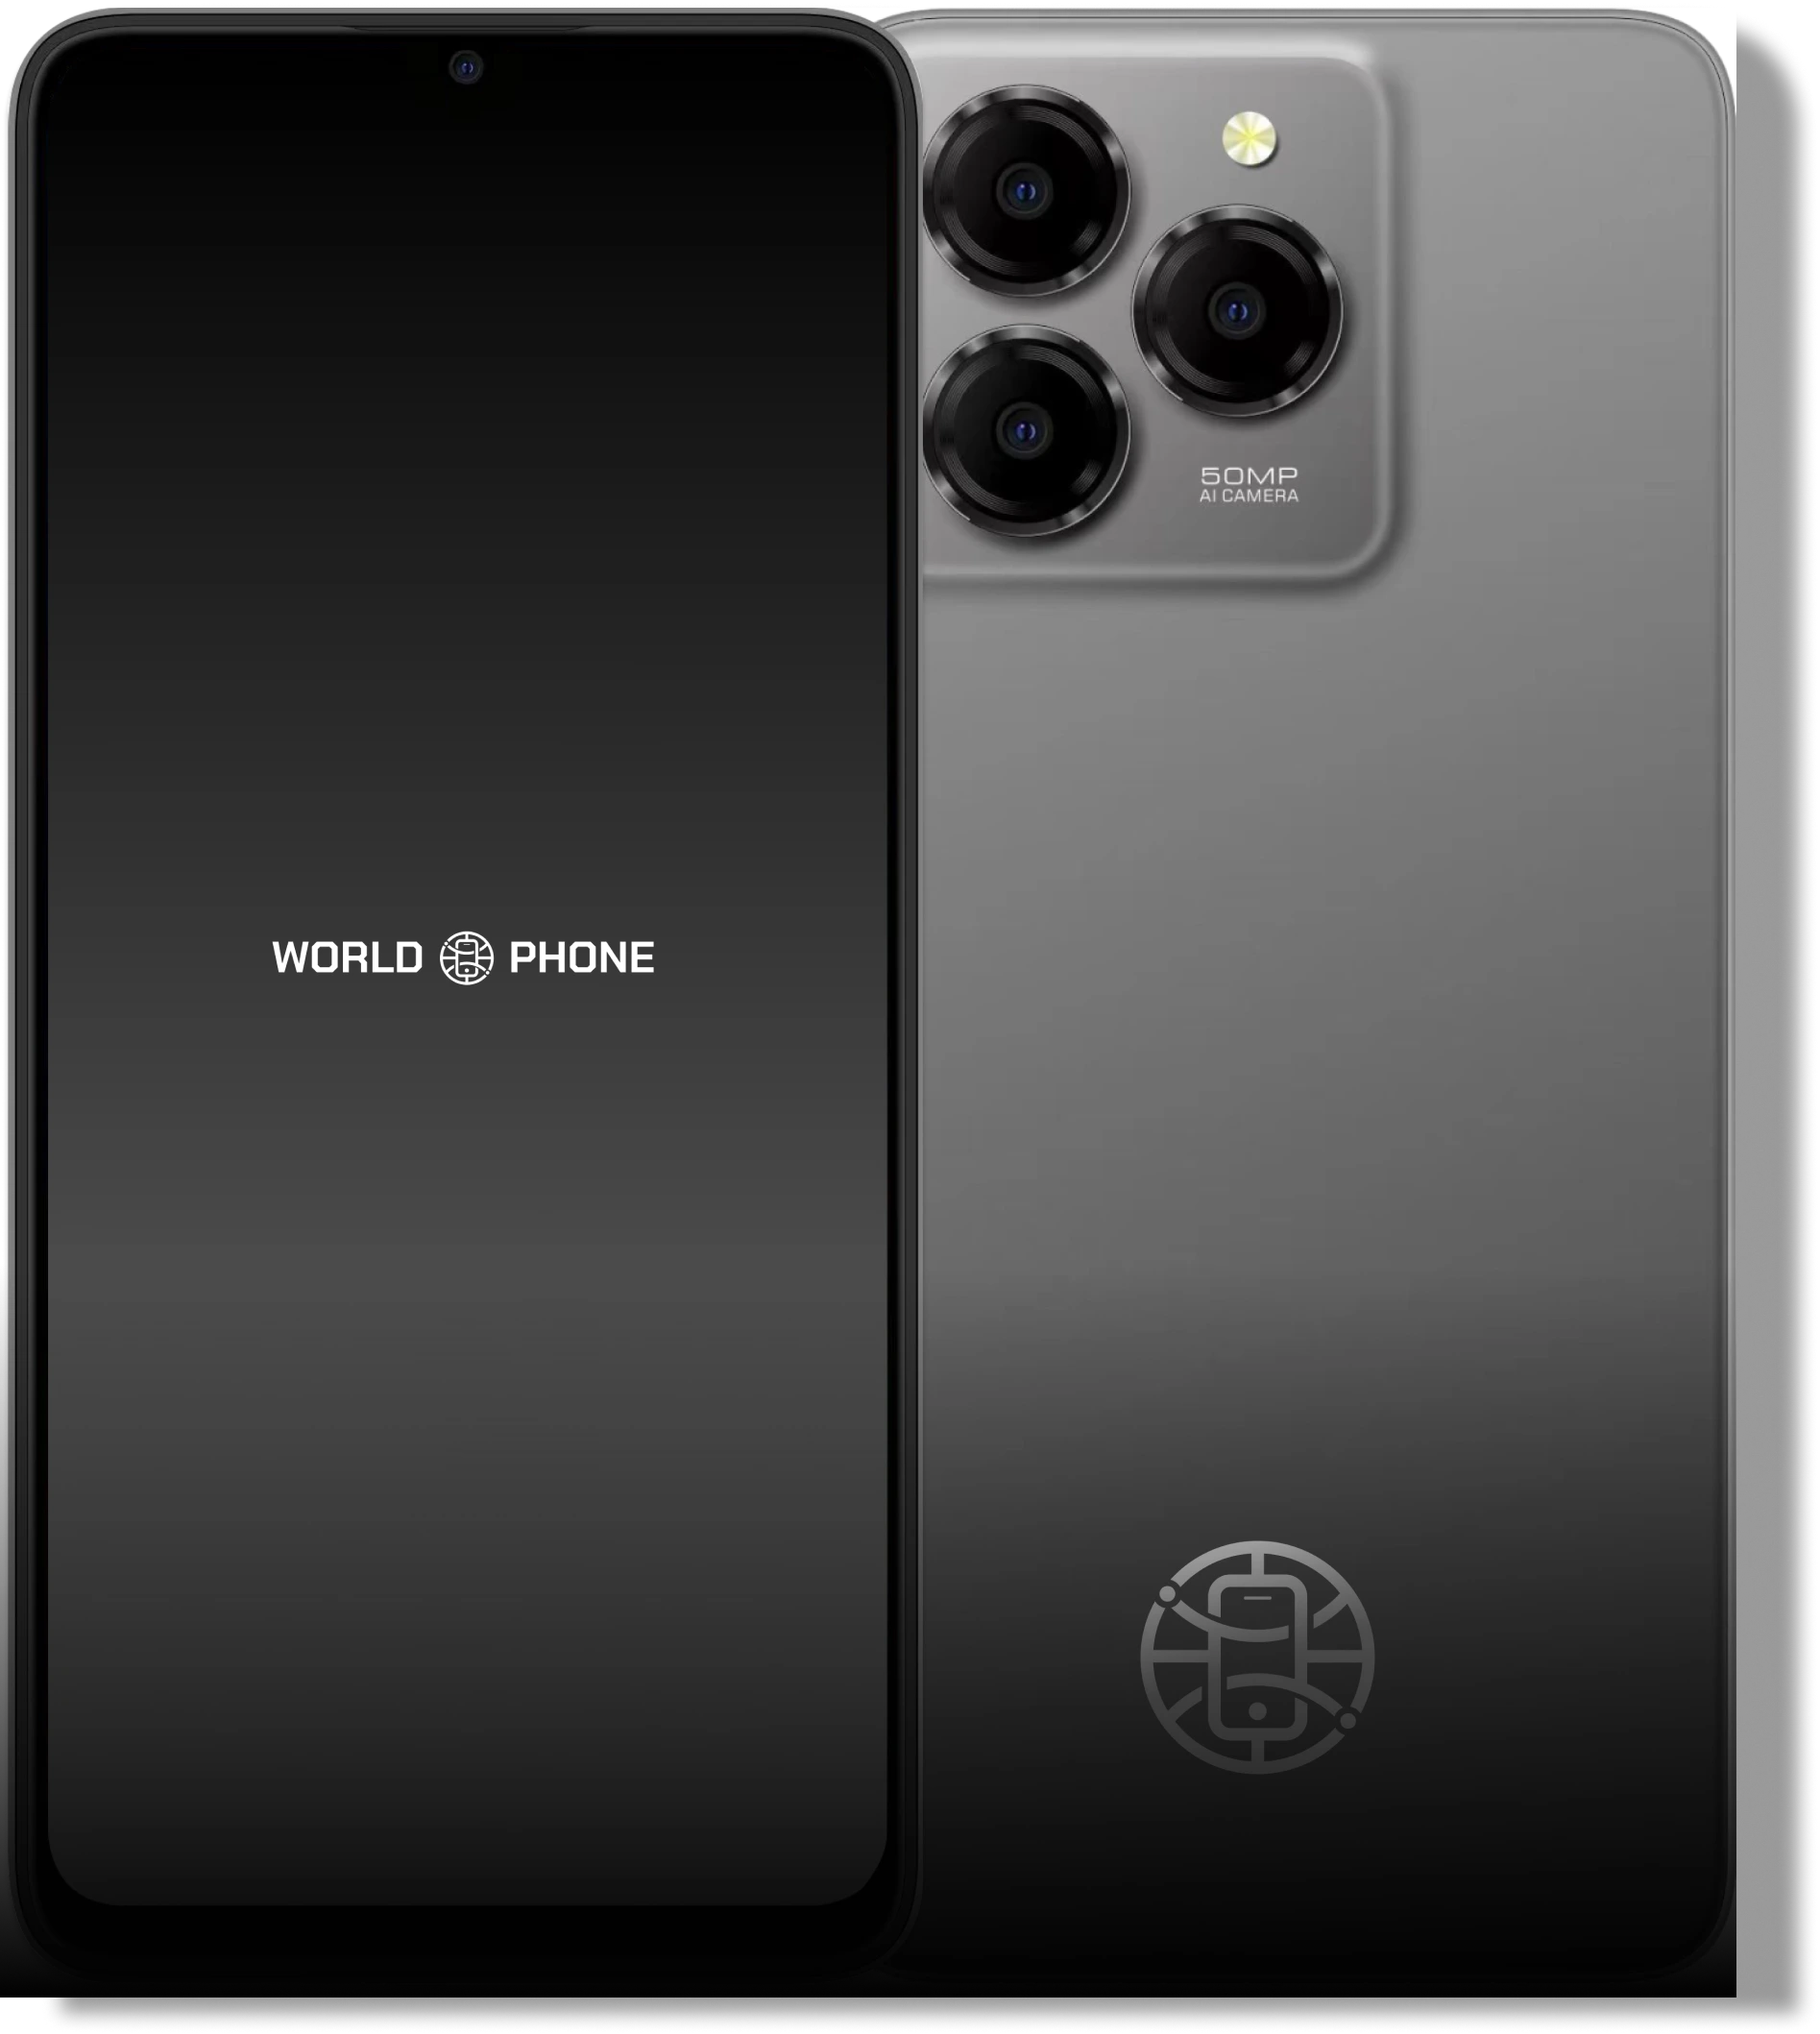
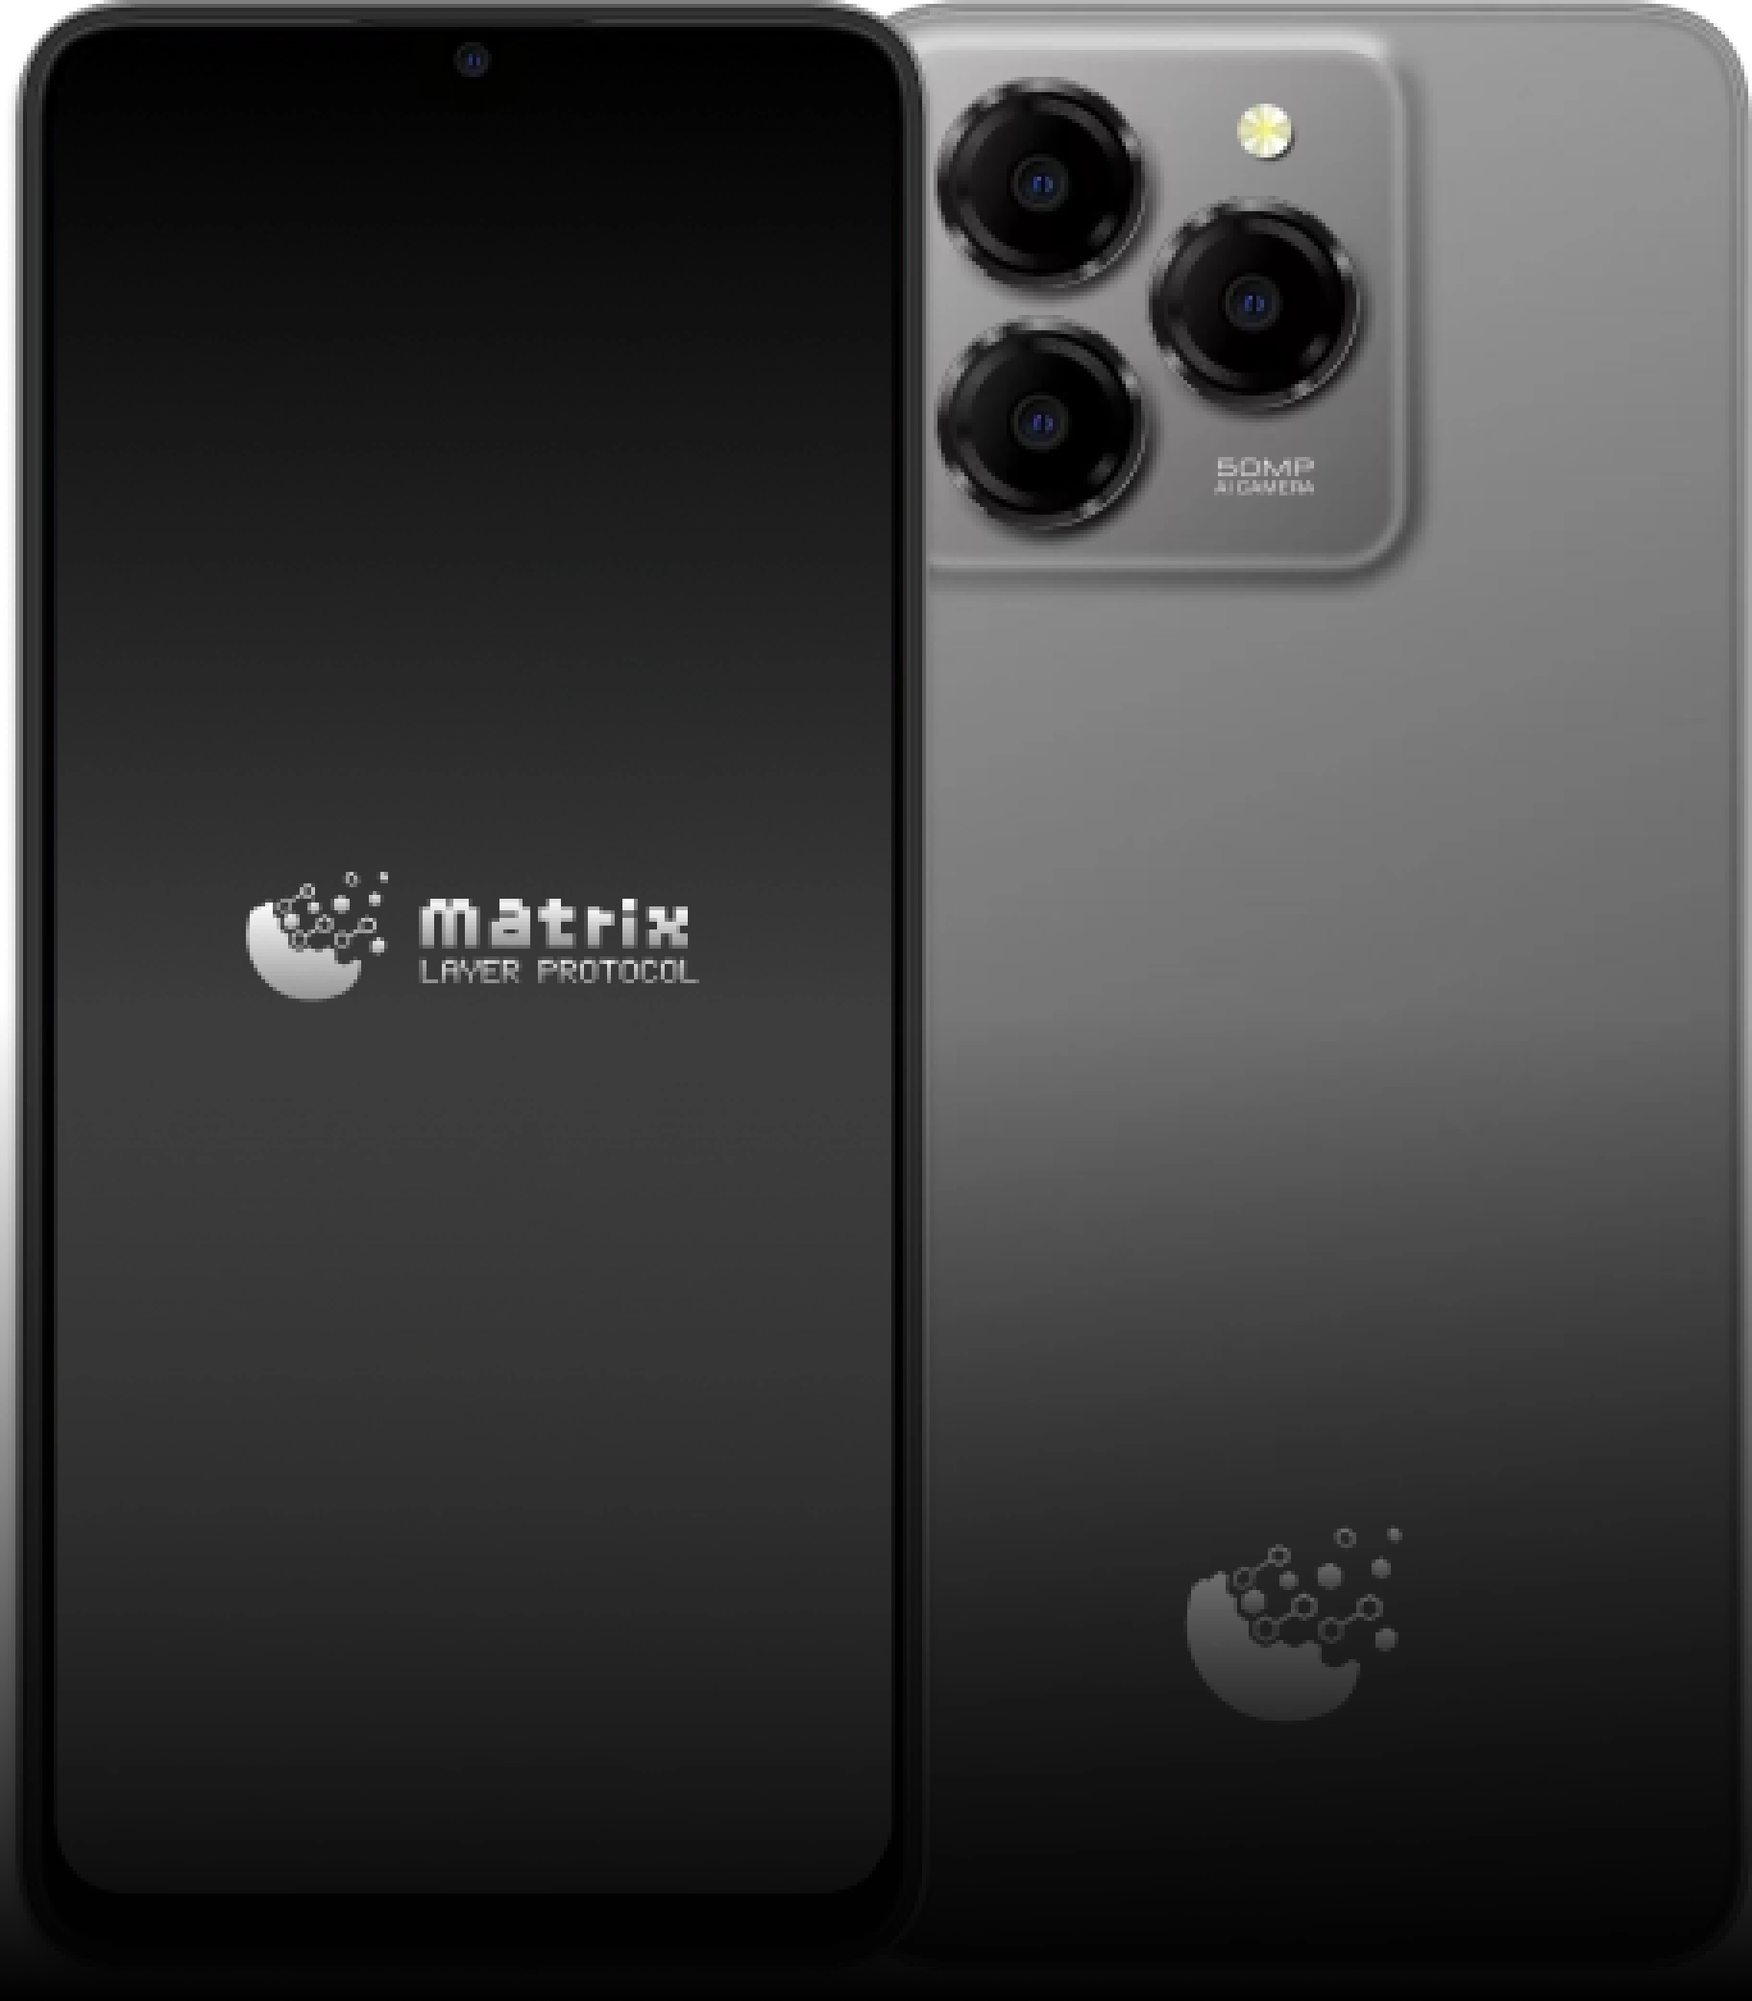
feat: replace home wphone

Changed region(s): [[0.0, 0.0, 1.0, 1.0], [0.125, 0.4367, 0.4062, 0.499], [0.625, 0.7486, 0.8125, 0.8733]]

diff --git a/pages/index.tsx b/pages/index.tsx
@@ -120,31 +120,32 @@ const HomePage = () => {
                 src='/images/home/home_float_2.webp'
                 alt='home_float_2'
               />
-              <div className='flex justify-center items-center'>
-                <Text className='relative z-10 text-[66px] text-white font-pressStart2P translate-x-[20px]'>
-                  WORLD
+              <div className='flex flex-col justify-center items-center'>
+                <Text className='relative z-10 text-[52px] text-white font-pressStart2P text-center'>
+                  MATRIX LAYER <br />
+                  PROTOCOL
                 </Text>
                 <img
-                  className='w-[452px] h-[518px] object-cover relative z-20'
+                  className='w-[456px] h-[521px] object-cover relative z-20'
                   src='/images/home/home_image_1.webp'
                   alt='home_image_1'
                 />
-                <Text className='relative z-10 text-[66px] text-white font-pressStart2P translate-x-[-40px]'>
-                  PHONE
-                </Text>
               </div>
-              <Button className='text-[32px] text-center p-[20px] rounded-[20px] translate-y-[-6px]'>
+              <Button
+                className='relative z-20 bottom-[50px] text-[32px] text-center p-[20px] rounded-[20px]
+                  translate-y-[-6px]'
+              >
                 Unlock with Your Eyes, Connect with the Blockchain
               </Button>
             </div>
           </Content>
         </div>
       </Container>
-      <Container className='flex flex-col justify-end z-20 bg-gradient-home-bg-1 min-h-[800px] pt-[200px]'>
+      <Container className='flex flex-col justify-end bg-gradient-home-bg-1 min-h-[800px]'>
         <div ref={section2Ref}>
           <video
             ref={video2Ref}
-            className='w-screen h-full object-cover max-h-[1080px] rotate-[27.82deg]'
+            className='w-screen h-full object-cover max-h-[1080px] rotate-[27.82deg] opacity-30'
             autoPlay
             muted
             loop
@@ -169,17 +170,17 @@ const HomePage = () => {
             <div className='flex flex-col gap-y-[30px] items-start lg:w-[920px]'>
               <Text
                 className='text-[14px] text-center lg:text-left lg:text-[48px] clip-text
-                  bg-gradient-home-text-1 font-bold'
+                  bg-gradient-home-text-1 font-semibold'
               >
-                The World&apos;s First Smartphone <br /> with Full-Chain Network
-                Integration
+                The World&apos;s First Smartphone <br />
+                with Full-Chain Network Integration
               </Text>
               <Text className='text-[12px] font-normal lg:text-[22px] text-center lg:text-left'>
-                World Phone is designed to break the limitations of traditional
-                mobile devices by deeply integrating blockchain technology into
-                smartphones through innovative hardware and software,
-                simplifying users&apos; access to Web3 and enhancing their
-                overall experience.
+                Matrix Layer Protocol is designed to break the limitations of
+                traditional mobile devices by deeply integrating blockchain
+                technology into smartphones through innovative hardware and
+                software, simplifying users&apos; access to Web3 and enhancing
+                their overall experience.
               </Text>
               <div className='w-[65px] h-[1px] bg-white'></div>
               <Text
@@ -210,15 +211,15 @@ const HomePage = () => {
           ></div>
         </ImagesField>
         <Content className='pb-[70px]'>
-          <Text className='text-[24px] lg:text-[64px] mb-[12px] font-bold text-center'>
+          <Text className='text-[24px] lg:text-[64px] mb-[12px] font-semibold text-center'>
             <span className='clip-text bg-gradient-home-text-1'>
               Why choose
             </span>{' '}
-            <span className='#fff'>World Phone</span>
+            <span className='#fff'>Matrix Layer Protocol</span>
           </Text>
           <div className='flex justify-between items-center mb-[50px]'>
             <div className='w-[630px]'>
-              <Text className='text-[48px] mb-[40px] font-bold text-white'>
+              <Text className='text-[48px] mb-[40px] font-semibold text-white'>
                 The world&apos;s first mobile blockchain network node with iris
                 authentication.
               </Text>
@@ -239,7 +240,7 @@ const HomePage = () => {
               className='w-[550px] object-cover'
             />
             <div className='w-[630px]'>
-              <Text className='text-[48px] mb-[40px] font-bold text-white text-right'>
+              <Text className='text-[48px] mb-[40px] font-semibold text-white text-right'>
                 Ultimate privacy and industry-standard confidentiality.
               </Text>
               <Button className='w-full py-[10px]'>
@@ -248,12 +249,12 @@ const HomePage = () => {
             </div>
           </div>
           <div>
-            <Text className='text-[48px] mb-[20px] font-bold text-white text-center whitespace-nowrap'>
+            <Text className='text-[48px] mb-[20px] font-semibold text-white text-center whitespace-nowrap'>
               The first full-chain ecological Web3 mobile phone
             </Text>
             <Text
-              className='text-[28px] mb-[30px] font-bold clip-text bg-gradient-home-text-1 text-center
-                whitespace-nowrap'
+              className='text-[28px] mb-[30px] font-semibold clip-text bg-gradient-home-text-1
+                text-center whitespace-nowrap uppercase'
             >
               One device in hand, interacts with the global ecosystem.
             </Text>
@@ -265,7 +266,6 @@ const HomePage = () => {
           </div>
         </Content>
       </Container>
-
       <Container>
         <div ref={section3Ref}>
           <ImagesField>
@@ -298,13 +298,13 @@ const HomePage = () => {
                   alt='home_image_6'
                   className='w-[425px] object-cover'
                 />
-                <Text className='text-[48px] font-bold text-white'>
+                <Text className='text-[48px] font-semibold text-white'>
                   smartphone assistant
                 </Text>
                 <div className='w-[65px] h-[1px] bg-white my-[20px]'></div>
                 <Text
                   className='text-[12px] lg:text-[28px] text-center lg:text-left uppercase clip-text
-                    bg-gradient-home-text-1 font-bold'
+                    bg-gradient-home-text-1 font-semibold'
                 >
                   Follow Sam Altman&apos;s thoughts and let technology serve
                   life
@@ -333,7 +333,7 @@ const HomePage = () => {
           ></div>
         </ImagesField>
         <Content className='pb-[185px]'>
-          <Text className='text-[24px] lg:text-[64px] mb-[40px] font-bold text-center'>
+          <Text className='text-[24px] lg:text-[64px] mb-[40px] font-semibold text-center'>
             <span className='#fff'>One Mobile Phone, </span>
             <span className='clip-text bg-gradient-home-text-1'>
               6 Benefits
@@ -361,10 +361,10 @@ const HomePage = () => {
           />
         </ImagesField>
         <Content className='pb-[185px]'>
-          <Text className='text-[24px] lg:text-[64px] mb-[40px] font-bold text-center'>
+          <Text className='text-[24px] lg:text-[64px] mb-[40px] font-semibold text-center'>
             <span className='#fff'>How to join</span>
             <span className='clip-text bg-gradient-home-text-1'>
-              &nbsp;World Phone&apos;s&nbsp;
+              &nbsp;Matrix Layer Protocol&nbsp;
             </span>
             <span className='#fff'>growth and maximize earnings? </span>
           </Text>
@@ -381,12 +381,12 @@ const HomePage = () => {
                 >
                   <Text
                     as='span'
-                    className='leading-none text-[20px] font-bold text-black'
+                    className='leading-none text-[20px] font-semibold text-black'
                   >
                     {item.title}
                   </Text>
                 </div>
-                <Text className='text-[20px] font-bold text-white text-center'>
+                <Text className='text-[20px] font-semibold text-white text-center'>
                   {item.description}
                 </Text>
               </div>

diff --git a/components/Button/Button.tsx b/components/Button/Button.tsx
@@ -16,7 +16,7 @@ const Button = extendVariants(NextButton, {
     size: {
       sm: `px-unit-4 py-unit-2 min-w-unit-20 text-sm font-normal 
         gap-unit-2 rounded-[8px]`,
-      md: `px-unit-4 py-unit-2 min-w-unit-20 text-[24px] font-bold 
+      md: `px-unit-4 py-unit-2 min-w-unit-20 text-[24px] font-semibold 
         gap-unit-2 rounded-[8px]`
     },
     radius: {

diff --git a/components/Home/Container.tsx b/components/Home/Container.tsx
@@ -50,7 +50,7 @@ export const Content: FC<ContentProps> = ({
     <div
       className={twMerge(
         clsx(
-          'relative z-20 container mx-auto px-[30px] lg:px-[50px]',
+          'relative z-20 container mx-auto px-[30px] lg:px-[20px]',
           className
         )
       )}
